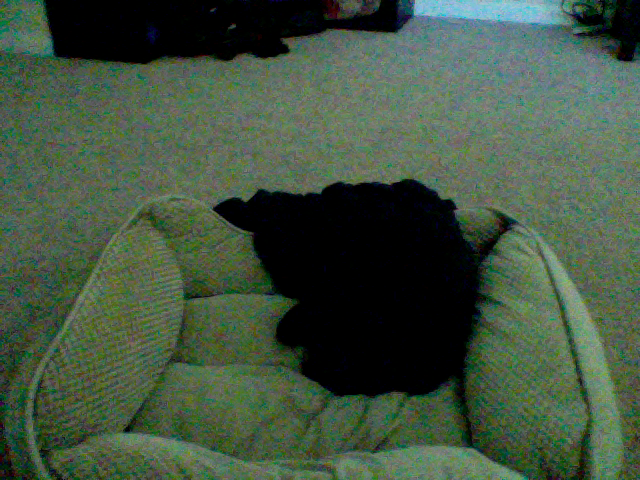
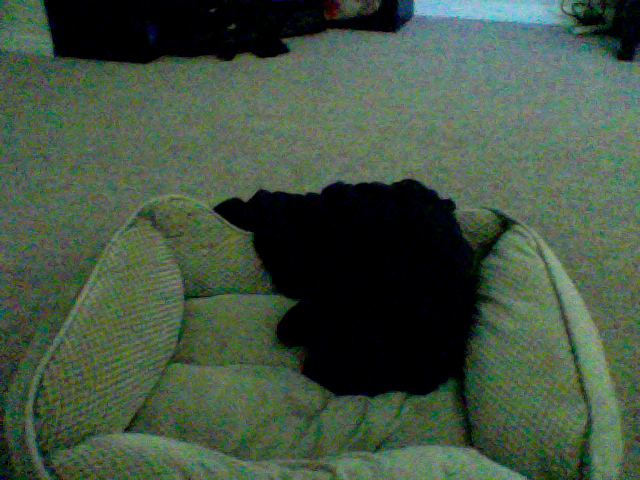
update at Month05Day08Time18:03

diff --git a/index.html b/index.html
@@ -39,7 +39,7 @@
       <!-- Example row of columns -->
       <div class="row">
         <div class="col-md-4">
-	<p>This picture was updated at Month05Day08Time18:02</p>
+	<p>This picture was updated at Month05Day08Time18:03</p>
 		<img src="9_pic.png" />
         </div>
       </div>
